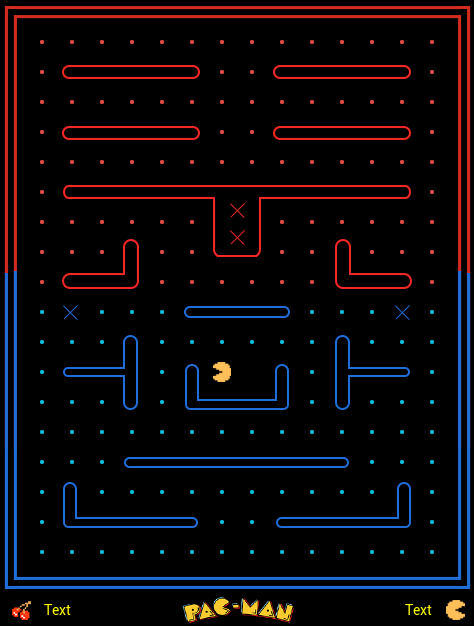
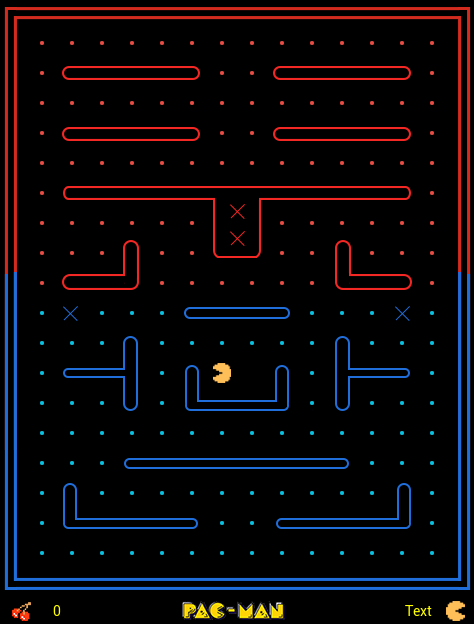
Life

diff --git a/main.cpp b/main.cpp
@@ -141,7 +141,7 @@ int main(const int argc, const char *argv[])
 
 	al_flip_display();
 
-	int direction = 0, points = 0, intention = 0;
+	int direction = 0, points = 0, intention = 0, life = 3;
 
 	bool redraw = false;
 
@@ -160,8 +160,6 @@ int main(const int argc, const char *argv[])
 	life_btn.setX(421.0);
 
 	life_btn.setIconX(443.0);
-
-	char buffer[33];
 
 	while (true)
 	{
@@ -254,6 +252,8 @@ int main(const int argc, const char *argv[])
 			
 			points_btn.showStr().showIcon();
 
+			life_btn.setStr(to_string(life).c_str());
+			
 			life_btn.showStr().showIcon();
 
 			al_draw_bitmap(logo_bottom, 185.0, 598.0, 0);

diff --git a/headers.hpp b/headers.hpp
@@ -5,10 +5,6 @@
 
 #include <string>
 
-#include <stdio.h>
-
-#include <stdlib.h>
-
 // Allegro
 
 #include <allegro5/allegro.h>

diff --git a/README.md b/README.md
@@ -23,12 +23,6 @@
 
 #### Features
 
-1. Full screen
+1. Volume sound
 
-2. Status
-
-3. Keyboard arrows
-
-4. Volume sound
-
-5. Animation pacman
+2. Animation pacman
